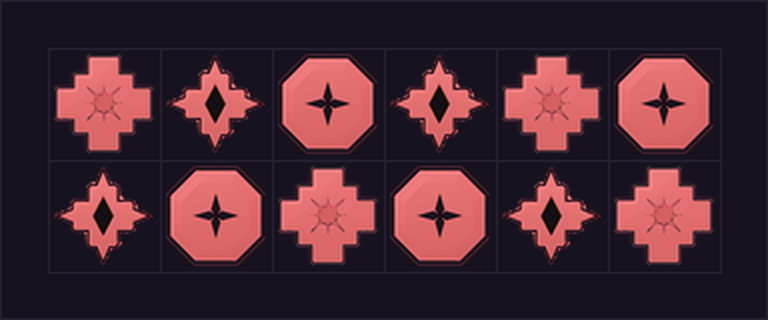
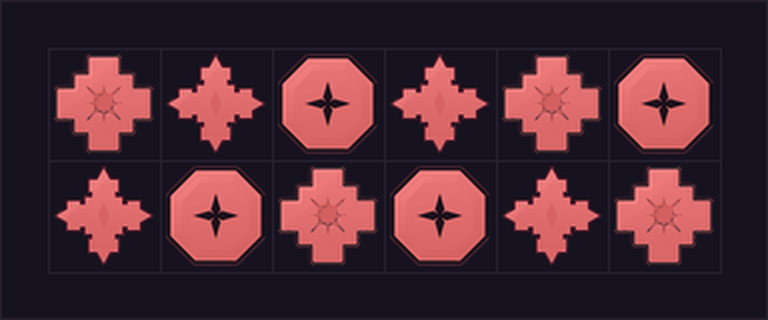
v1.17.34 art(fx): 特殊方块7款全部定稿——放量完成+mark v5提取算法
- 放量 row(扁横条+横双头箭)/col(竖条+竖双头箭)/rand(菱形+骰面五点) 中性母版
- rainbow 六角星+六色环(不染)
- mark 提取算法迭代：v3 flood连通(误吞body暗面出灰带) -> v4 中心40%区(灰带仍在)
  -> v5 定稿=L<45全图 + 中心36%区L<95 + mark层压深0.45(刻印近黑,残余暗面变自然阴影)
- sub v3：生成图把菱形画成镂空刻痕 -> 'ink stamp 实心填充'隐喻重出，56px下黑菱形醒目
- 交付：7款 body/mark 256px 双层图 + family_silhouette + tint_matrix_all(7x6) + board_sim_all(56px混排)
- 全款 56px 同色棋盘验收：6款染色块+彩虹一眼可分，达到 game-ready

diff --git a/tools/_special_blocks_final.py b/tools/_special_blocks_final.py
@@ -1,0 +1,104 @@
+# -*- coding: utf-8 -*-
+"""特殊方块最终批处理：7 款 -> body/mark 256px + 谱系图 + 染色矩阵 + 56px 混合棋盘"""
+from PIL import Image, ImageDraw, ImageFont, ImageFilter
+from collections import deque
+import os, sys
+sys.path.insert(0, 'F:/workspace/towerdefence/tools')
+from _special_blocks_batch_v2 import keyout, islands_clean, to256, make_mark, tint, TINTS
+
+DIR = 'F:/workspace/towerdefence/art/special_blocks_v1'
+V2 = os.path.join(DIR, 'v2')
+CH2 = os.path.join(DIR, 'chroma2')
+
+TINTED = [
+    ('row',   '2D_game_tile_icon__a_neutral_U_2026-10-29T15-15-49.png', '行爆 扁横条'),
+    ('col',   '2D_game_tile_icon__a_neutral_U_2026-10-29T15-16-10.png', '列爆 竖条'),
+    ('rand',  '2D_game_tile_icon__a_neutral_U_2026-10-29T15-16-29.png', '乱数 菱形'),
+]
+RAINBOW = os.path.join(CH2, '2D_match_3_game_special_tile_i_2026-10-29T15-16-48.png')
+
+for name, fn, label in TINTED:
+    m = to256(islands_clean(keyout(os.path.join(V2, fn))))
+    mk = make_mark(m)
+    m.save(os.path.join(CH2, 'chip_%s_neutral.png' % name), optimize=True)
+    mk.save(os.path.join(CH2, 'chip_%s_mark.png' % name), optimize=True)
+    print(name, 'ok')
+
+rb = to256(islands_clean(keyout(RAINBOW)))
+rb.save(os.path.join(CH2, 'chip_rainbow.png'), optimize=True)
+print('rainbow ok')
+
+# ---- 全部款（body+mark 已备）----
+FAMILY = [('cross', '十字爆'), ('split', '父雷'), ('sub', '子雷'),
+          ('row', '行爆'), ('col', '列爆'), ('rand', '乱数'), ('rainbow', '彩虹')]
+bodies, marks = {}, {}
+for name, _ in FAMILY:
+    if name == 'rainbow':
+        bodies[name] = Image.open(os.path.join(CH2, 'chip_rainbow.png')).convert('RGBA')
+        marks[name] = None
+    else:
+        bodies[name] = Image.open(os.path.join(CH2, 'chip_%s_neutral.png' % name)).convert('RGBA')
+        marks[name] = Image.open(os.path.join(CH2, 'chip_%s_mark.png' % name)).convert('RGBA')
+
+def composed(name, rgb=None, alpha=0.78):
+    b = bodies[name]
+    if rgb is None:
+        return b
+    t = tint(b, rgb, alpha)
+    if marks[name] is not None:
+        t.alpha_composite(marks[name])
+    return t
+
+try:
+    font = ImageFont.truetype('C:/Windows/Fonts/msyh.ttc', 15)
+except Exception:
+    font = ImageFont.load_default()
+
+# A) 母版谱系（灰度，验证轮廓可辨）
+C = 132; G = 14
+sheet = Image.new('RGBA', (7 * C + 8 * G, C + 3 * G + 26), (23, 18, 31, 255))
+d = ImageDraw.Draw(sheet)
+d.text((G, 6), '轮廓谱系（中性灰母版，灰度下也能分辨）', font=font, fill=(210, 200, 225, 255))
+for i, (name, label) in enumerate(FAMILY):
+    sheet.alpha_composite(bodies[name].resize((C, C), Image.LANCZOS), (G + i * (C + G), 26))
+    d.text((G + i * (C + G) + 40, 26 + C + 2), label, font=font, fill=(190, 182, 205, 255))
+sheet.save(os.path.join(CH2, 'family_silhouette.png'))
+print('family_silhouette saved')
+
+# B) 染色矩阵：7 款 x 6 色（彩虹重复展示自身）
+CC = 104; GG = 10
+sheet = Image.new('RGBA', (6 * CC + 7 * GG, 7 * CC + 8 * GG + 26), (23, 18, 31, 255))
+d = ImageDraw.Draw(sheet)
+d.text((GG, 6), '染色矩阵：7 款 x 6 来源色（α0.78，彩虹不染）', font=font, fill=(210, 200, 225, 255))
+for ri, (name, label) in enumerate(FAMILY):
+    for ci, (cn, rgb) in enumerate(TINTS):
+        img = composed(name, None if name == 'rainbow' else rgb)
+        x = GG + ci * (CC + GG); y = 26 + GG + ri * (CC + GG)
+        sheet.alpha_composite(img.resize((CC, CC), Image.LANCZOS), (x, y))
+sheet.save(os.path.join(CH2, 'tint_matrix_all.png'))
+print('tint_matrix_all saved')
+
+# C) 56px 同色混合棋盘（全款）
+CELL = 56; P = 22
+rows = [
+    ['row', 'col', 'cross', 'split', 'sub', 'rand'],
+    ['split', 'sub', 'rand', 'cross', 'rainbow', 'sub'],
+    ['sub', 'cross', 'split', 'sub', 'cross', 'split'],
+]
+sim = Image.new('RGBA', (6 * CELL + 2 * P, 3 * CELL + 2 * P), (23, 18, 31, 255))
+d = ImageDraw.Draw(sim)
+d.rectangle([0, 0, sim.width - 1, sim.height - 1], outline=(38, 31, 48, 255))
+for i in range(7):
+    x = P + i * CELL
+    d.line([(x, P), (x, P + 3 * CELL)], fill=(38, 31, 48, 255), width=1)
+for j in range(4):
+    y = P + j * CELL
+    d.line([(P, y), (P + 6 * CELL, y)], fill=(38, 31, 48, 255), width=1)
+for ri, row in enumerate(rows):
+    for ci, name in enumerate(row):
+        img = composed(name, None if name == 'rainbow' else (255, 107, 107))
+        sim.alpha_composite(img.resize((CELL, CELL), Image.LANCZOS), (P + ci * CELL, P + ri * CELL))
+# 右侧加一列：同款按 6 色排（检验一致性）
+sim = sim.resize((sim.width * 2, sim.height * 2), Image.LANCZOS)
+sim.save(os.path.join(CH2, 'board_sim_all.png'))
+print('board_sim_all saved', sim.size)
